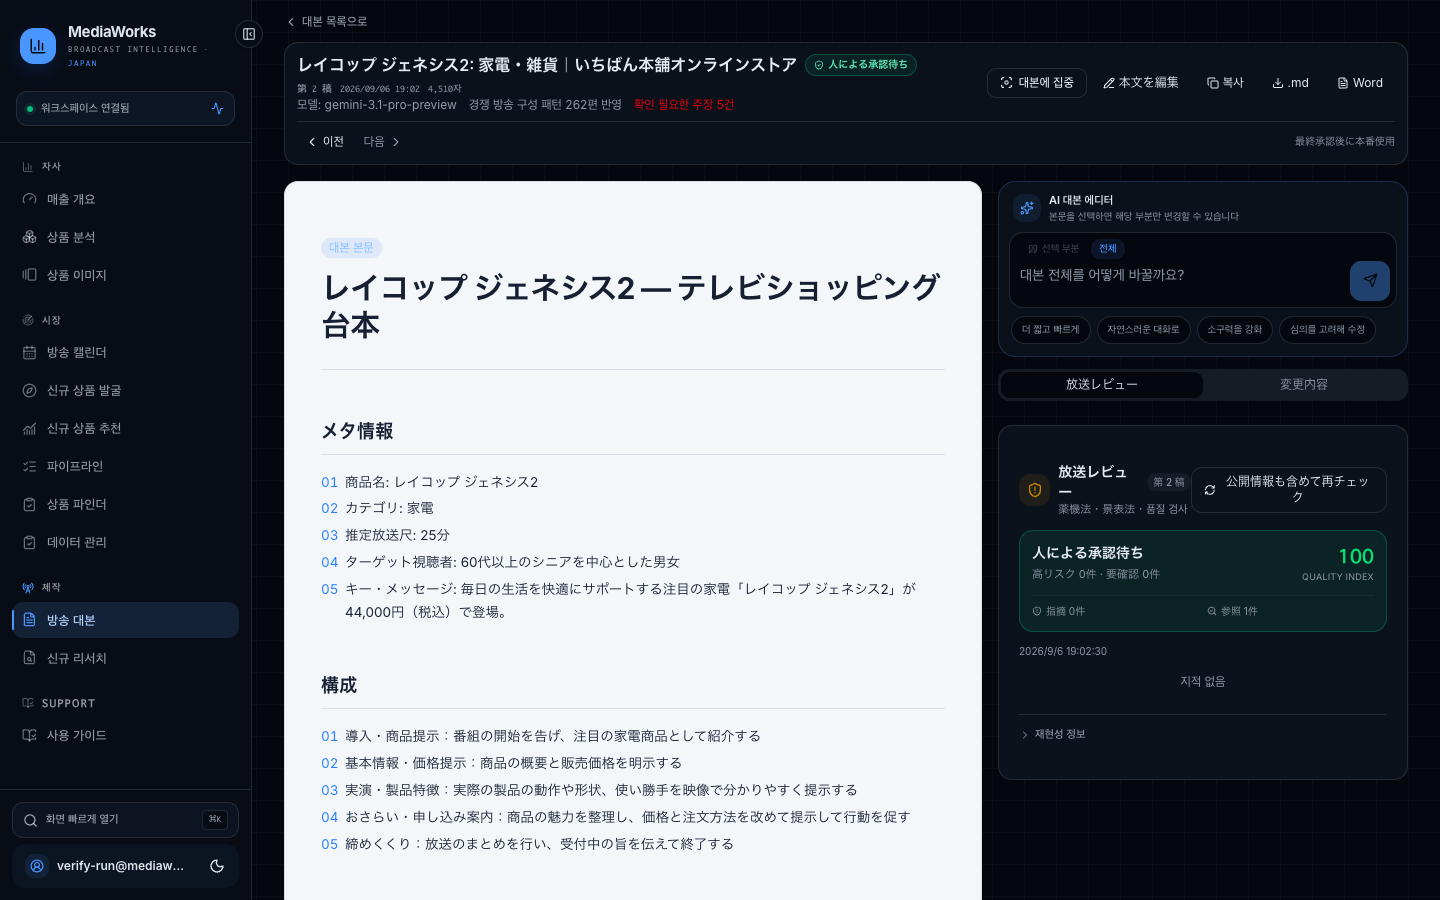
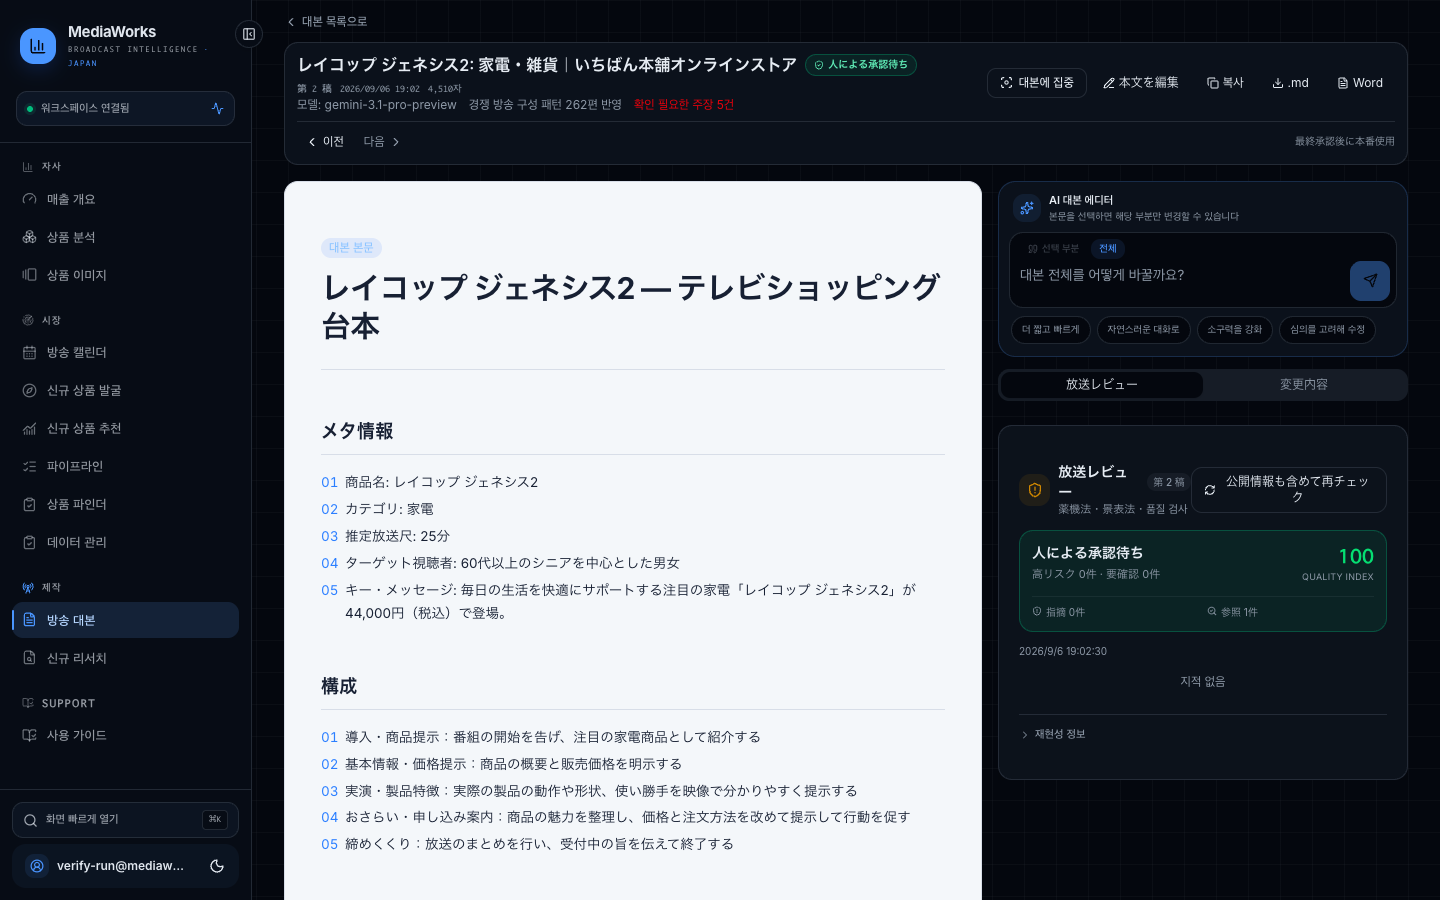
fix(guide): five Korean captures were the same stale frame
The screenshot tool returned the pre-interaction frame when a capture followed
a tab click or a scroll in the same breath, so 08b/08c/13/14 were four copies of
the default script view and 10/11 were two copies of the mapping step. Shipped
that way, the Korean guide illustrated "the claims tab" with a picture of the
script.

Re-captured with the intended state asserted in the DOM before each shot, and
verified afterwards by hash — every one of the 18 files is now distinct.

08c is dropped rather than re-shot: the JA capture predates a UI change. The
revise input used to sit behind a third tab (試験結果 / 変更点 / 改稿); it is now
always visible in the detail screen's right panel, so a separate capture would
be the same pixels as 08b by construction. 08b carries that caption instead.

11 is a full-page capture — the validation result sits below the fold and a
viewport shot of it is exactly what raced above.

Claude-Session: https://claude.ai/code/session_01EwkQUKGW44gXP6h1oR1HVA

diff --git a/lib/user-guide/content.ts b/lib/user-guide/content.ts
@@ -391,9 +391,9 @@ const ko: GuideContent = {
 					title: "대본 검토",
 					body: "도입, 문제 제기, 시연, 가격 제안, 구매 유도 흐름이 자연스러운지 확인한다. 표현은 실제 진행자 말투와 브랜드 톤에 맞게 다듬는다.",
 					image: {
-						src: koGuideImagePath("08c-screenplay-revise.png"),
-						alt: "대본 화면 아래쪽의 개고 입력란. 자연문으로 수정 지시를 넣는 입력창과 자주 쓰는 요청 버튼이 있다.",
-						caption: "자연문으로 지시하면 새 원고가 생성된다. 이전 원고는 그대로 남는다.",
+						src: koGuideImagePath("08b-screenplay-detail.png"),
+						alt: "방송 대본 상세 화면. 왼쪽에 대본 본문, 오른쪽에 개고 입력란과 자주 쓰는 요청 버튼이 있다.",
+						caption: "오른쪽 입력란에 자연문으로 지시하면 새 원고가 생성된다. 이전 원고는 그대로 남는다.",
 					},
 				},
 				{
@@ -406,11 +406,6 @@ const ko: GuideContent = {
 						"구성 / 실연 — 대본을 쓰기 전에 확정한 진행 순서와 척 배분. 지시한 필수 실연이 빠지지 않았는지 여기서 본다.",
 						"주장 — 대본 안의 사실 주장과 그 근거. 항목을 누르면 해당 줄로 이동한다.",
 					],
-					image: {
-						src: koGuideImagePath("08b-screenplay-detail.png"),
-						alt: "방송 대본 상세 화면. 위에 원고 전환과 내려받기 버튼, 아래에 대본·구성·실연·사실·참조·주장·이력 탭과 본문이 있다.",
-						caption: "문장을 읽기 전에 이 탭들을 먼저 본다.",
-					},
 				},
 				{
 					title: "배지 세 가지를 구분한다",
